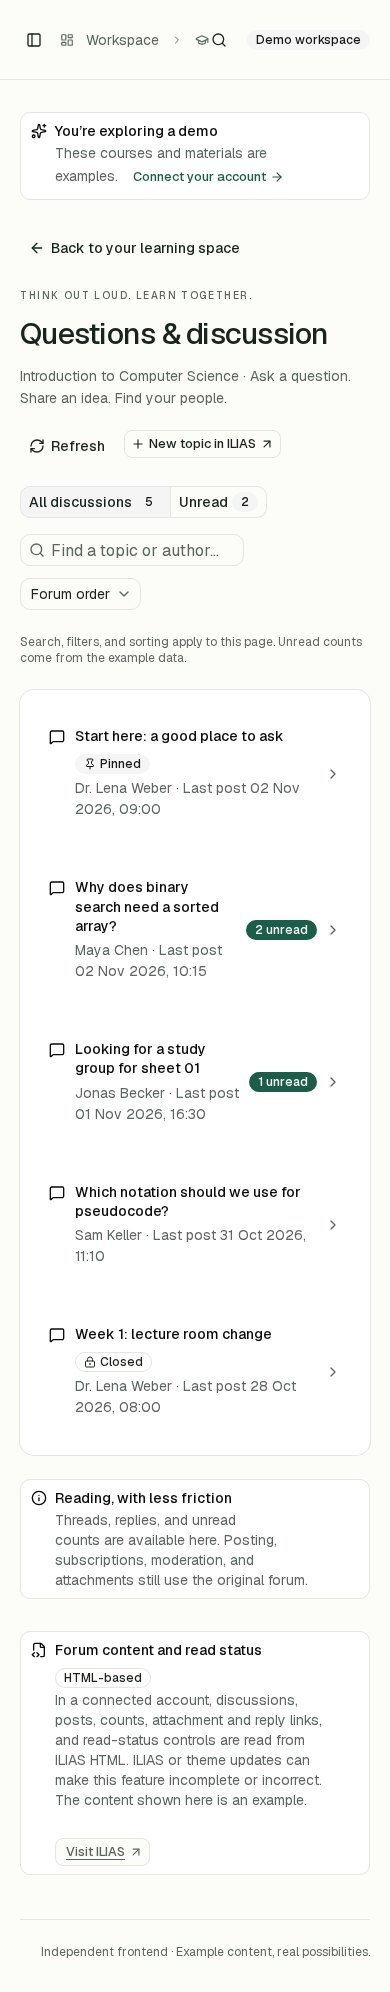
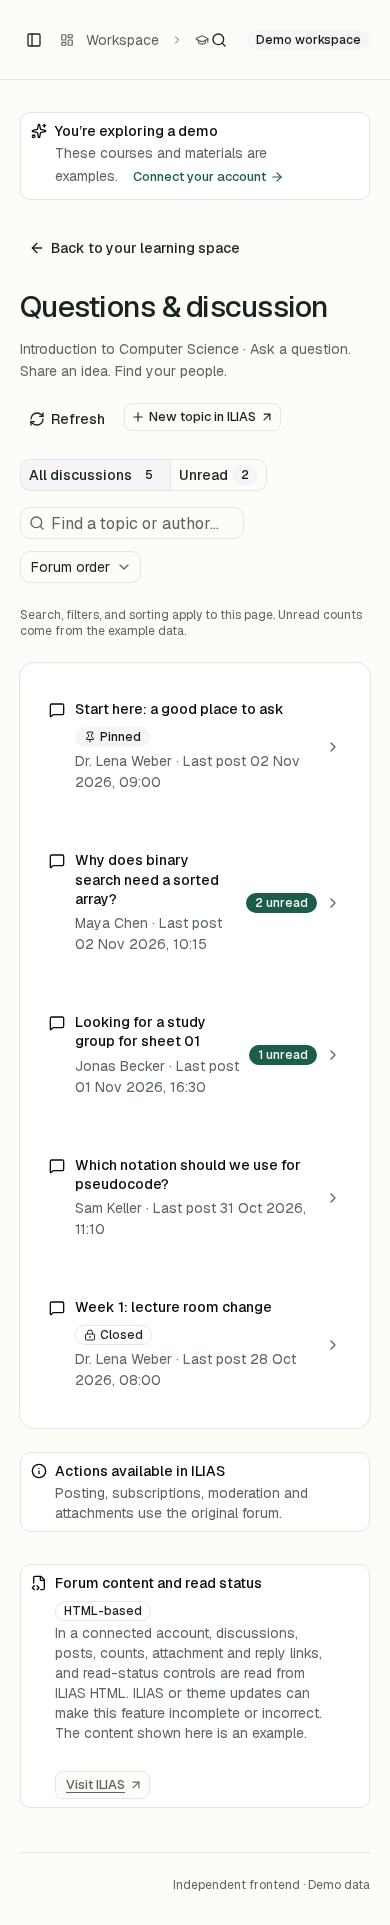
update screenshots

diff --git a/src/components/workspace/workspace-view.tsx b/src/components/workspace/workspace-view.tsx
@@ -384,9 +384,7 @@ export function WorkspaceView({
                   {view === "home" && localReady && local.recent.length > 0 && (
                     <section className="flex flex-col gap-4">
                       <div className="flex items-center justify-between">
-                        <h2 className="section-title">
-                          Pick up where you left off
-                        </h2>
+                        <h2 className="section-title">Recently opened</h2>
                       </div>
                       <div className="grid gap-3 md:grid-cols-2">
                         {local.recent.slice(0, 2).map((item) => (
@@ -463,9 +461,7 @@ export function WorkspaceView({
                   )}
                   {view === "home" && rest.length > 0 && (
                     <section className="flex flex-col gap-5">
-                      <h2 className="section-title">
-                        Also in your learning space
-                      </h2>
+                      <h2 className="section-title">Other items</h2>
                       <ItemList {...itemListProps} items={rest} />
                     </section>
                   )}
@@ -481,8 +477,8 @@ export function WorkspaceView({
                         <ArrowUpRight />
                         <AlertTitle>This course has more in ILIAS</AlertTitle>
                         <AlertDescription>
-                          Interactive activities and course tools open in the
-                          original platform. They’re labeled “In ILIAS” below.
+                          Unsupported activities and additional course tools
+                          open in ILIAS.
                         </AlertDescription>
                       </Alert>
                     )}

diff --git a/src/components/workspace/library-section.tsx b/src/components/workspace/library-section.tsx
@@ -60,13 +60,13 @@ export function LibrarySection({
                 <ArrowRight className="size-4" aria-hidden="true" />
               </Link>
             </h2>
-          ) : (
-            <h2 className="section-title">
-              {view === "saved" ? "Your bookmarks" : "Your courses"}
-            </h2>
-          )}
+          ) : null}
           <Badge variant="secondary">
-            {view === "saved" ? items.length : courses.length}
+            {view === "saved"
+              ? `${items.length} ${items.length === 1 ? "bookmark" : "bookmarks"}`
+              : view === "courses"
+                ? `${courses.length} ${courses.length === 1 ? "course or group" : "courses and groups"}`
+                : courses.length}
           </Badge>
         </div>
         <div className="flex flex-wrap items-center gap-3">

diff --git a/src/components/workspace/navigation.tsx b/src/components/workspace/navigation.tsx
@@ -101,10 +101,10 @@ export function Navigation({
             <p className="truncate text-xs font-medium">{data.instanceName}</p>
             <p className="mt-0.5 text-[11px] text-muted-foreground">
               {data.mode === "live"
-                ? "Your connected campus"
+                ? "Connected"
                 : data.mode === "demo"
                   ? "Demo workspace"
-                  : "Your campus, reimagined"}
+                  : "Not connected"}
             </p>
           </div>
         </div>

diff --git a/scripts/smoke.ts b/scripts/smoke.ts
@@ -182,7 +182,7 @@ try {
   await page.setViewportSize({ width: 390, height: 844 });
   await page.getByRole("button", { name: "Toggle Sidebar" }).click();
   await page.getByRole("link", { name: "Bookmarks", exact: true }).click();
-  await page.getByRole("heading", { name: "Bookmarks" }).waitFor();
+  await page.getByRole("heading", { name: "Bookmarks", exact: true }).waitFor();
   assert.equal(
     await page.evaluate(
       () => document.documentElement.scrollWidth <= window.innerWidth,
